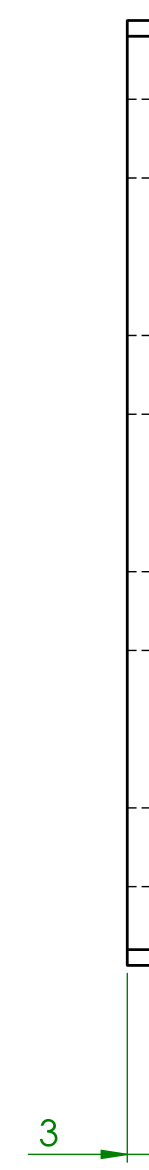
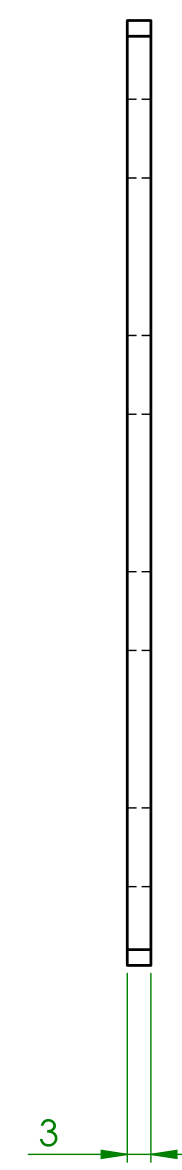
Localization works for one drawing the cropped images also have margins now and the boxes arent too tight like before. more testing needed before moving on

Changed region(s): [[0.5369, 0.0, 1.0, 1.0], [0.2148, 0.9538, 0.3758, 0.9846], [0.1611, 0.9846, 0.1879, 1.0]]

diff --git a/Stage_1_Localization_new_structure.py b/Stage_1_Localization_new_structure.py
@@ -36,6 +36,17 @@ response = ollama.chat(
                         4. "section_view": Sectional view of a component showing an internal cut.
                         5. "flat_pattern": Unfolded sheet metal layout views, if present.
                         
+                        When estimating the bounding box, prioritize COMPLETE CONTENT over a tight bounding box. 
+                        If uncertain whether a line belongs inside the region, include it rather than cropping it.
+                        
+                        For every detected region, the bounding box must extend slightly beyond the visible content of the region.
+                        Leave a small amount of empty whitespace between the outermost drawing content and every bounding-box boundary.
+                        Do NOT place the bounding-box boundary directly on the drawing geometry, dimension lines, arrows, or annotations.
+                        The margin should be large enough to ensure that no part of the drawing is clipped when the region is cropped, but should not unnecessarily include neighboring regions.
+                        
+                        For orthographic_view specifically, make sure the entire physical part, including all of its edges, is inside the bounding box with visible whitespace around it.
+                        For narrow orthographic views, do not make the bounding box tightly fit the narrow geometry. The bounding box should include sufficient horizontal whitespace on both sides so that the view is clearly visible as a standalone crop.
+                        
                         Only include a region if it is actually present in the image.
                         If multiple instances of the same region type are present, create a separate entry for each instance.
                         Do not stop after detecting one region. Inspect the entire page for all region types before returning the JSON.
